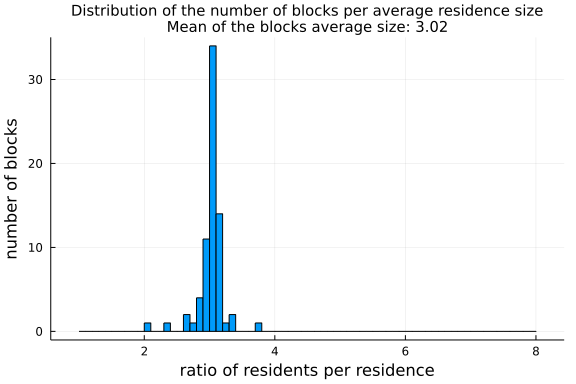
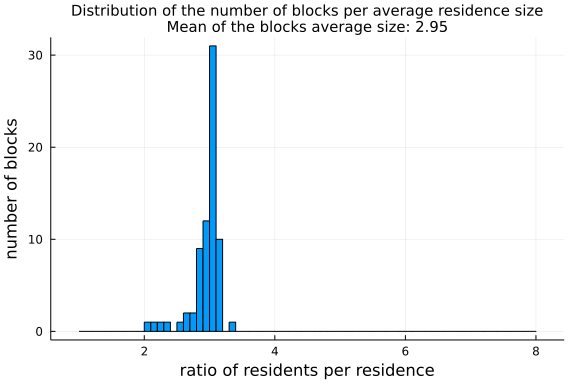
reorder output transition_rules

diff --git a/docs/src/examples/random_scenario.md b/docs/src/examples/random_scenario.md
@@ -275,12 +275,12 @@ res_blocks_distrib = EpiSiming.gen_res_blocks(pop_blocks, res_size_distribution)
 
 ```
 6×12 Matrix{Vector{Int64}}:
- [11, 19, 29, 18, 4, 5, 1, 0]  …  [1, 1, 4, 1, 0, 1, 0, 0]
- [5, 6, 12, 7, 1, 1, 1, 0]        [7, 13, 21, 15, 3, 3, 1, 0]
- [3, 5, 7, 6, 1, 2, 0, 0]         [7, 15, 24, 14, 3, 4, 1, 0]
- [5, 9, 13, 11, 2, 3, 0, 0]       [7, 17, 26, 15, 3, 4, 1, 0]
- [6, 14, 20, 13, 2, 2, 1, 0]      [5, 11, 19, 11, 2, 2, 0, 0]
- [5, 12, 15, 11, 2, 2, 0, 0]   …  [5, 11, 16, 11, 3, 3, 0, 0]
+ [10, 22, 28, 19, 4, 4, 1, 0]  …  [1, 3, 2, 3, 0, 0, 0, 0]
+ [5, 9, 12, 6, 2, 1, 0, 0]        [6, 14, 22, 14, 3, 3, 1, 0]
+ [4, 7, 7, 5, 2, 1, 0, 0]         [6, 15, 23, 15, 3, 4, 1, 0]
+ [5, 11, 15, 10, 2, 2, 0, 0]      [8, 20, 24, 15, 4, 3, 1, 0]
+ [6, 14, 19, 12, 2, 2, 2, 0]      [5, 12, 16, 11, 2, 2, 1, 0]
+ [8, 9, 16, 11, 2, 2, 0, 0]    …  [5, 10, 16, 11, 2, 3, 1, 0]
 ```
 
 
@@ -330,7 +330,7 @@ residences = EpiSiming.gen_residences(rng, res_blocks_distrib)
 ```
 
 ```
-3288-element EpiSiming.Residences{Int64, Float64}:
+3318-element EpiSiming.Residences{Int64, Float64}:
  (1, (1.5555555555555556, 1.3888888888888888), 1, [1])
  (1, (1.5, 1.0), 1, [2])
  (1, (1.5, 1.5), 1, [3])
@@ -342,20 +342,17 @@ residences = EpiSiming.gen_residences(rng, res_blocks_distrib)
  (1, (1.6111111111111112, 1.6111111111111112), 1, [9])
  (1, (1.7222222222222223, 1.7222222222222223), 1, [10])
  ⋮
- (72, (6.214285714285714, 12.214285714285714), 4, [9956, 9957, 9958, 9959])
- (72, (6.428571428571429, 12.357142857142858), 4, [9960, 9961, 9962, 9963])
- (72, (6.714285714285714, 12.142857142857142), 4, [9964, 9965, 9966, 9967])
- (72, (6.857142857142857, 12.071428571428571), 5, [9968, 9969, 9970, 9971, 
-9972])
- (72, (6.642857142857143, 12.071428571428571), 5, [9973, 9974, 9975, 9976, 
-9977])
- (72, (6.928571428571429, 12.785714285714286), 5, [9978, 9979, 9980, 9981, 
-9982])
- (72, (6.357142857142857, 12.214285714285714), 6, [9983, 9984, 9985, 9986, 
-9987, 9988])
- (72, (6.071428571428571, 12.642857142857142), 6, [9989, 9990, 9991, 9992, 
-9993, 9994])
- (72, (6.357142857142857, 12.5), 6, [9995, 9996, 9997, 9998, 9999, 10000])
+ (72, (6.083333333333333, 12.25), 4, [9954, 9955, 9956, 9957])
+ (72, (6.666666666666667, 12.916666666666666), 4, [9958, 9959, 9960, 9961])
+ (72, (6.083333333333333, 12.5), 4, [9962, 9963, 9964, 9965])
+ (72, (6.916666666666667, 12.5), 5, [9966, 9967, 9968, 9969, 9970])
+ (72, (6.166666666666667, 12.5), 5, [9971, 9972, 9973, 9974, 9975])
+ (72, (6.083333333333333, 12.916666666666666), 6, [9976, 9977, 9978, 9979, 
+9980, 9981])
+ (72, (6.5, 12.75), 6, [9982, 9983, 9984, 9985, 9986, 9987])
+ (72, (6.083333333333333, 12.75), 6, [9988, 9989, 9990, 9991, 9992, 9993])
+ (72, (6.916666666666667, 12.583333333333334), 7, [9994, 9995, 9996, 9997, 
+9998, 9999, 10000])
 ```
 
 
@@ -425,61 +422,62 @@ population = EpiSiming.gen_population(
 10000-element EpiSiming.Population{EpiSiming.Phase, Int64, Int64, Float64, 
 Int8, Float64, Symbol}:
  (S, 1, (E, 9223372036854775807), 1, (1.5694444444444444, 1.388888888888888
-8), 17, 0.8429668909281123, 1.0871421914278978, Dict{Symbol, Int64}(), Dict
+8), 64, 0.8429668909281123, 1.0871421914278978, Dict{Symbol, Int64}(), Dict
 {Symbol, Int64}())
- (S, 1, (E, 9223372036854775807), 2, (1.5138888888888888, 1.0), 11, 0.63460
+ (S, 1, (E, 9223372036854775807), 2, (1.5138888888888888, 1.0), 34, 0.63460
 32739780121, 0.9288554210581556, Dict{Symbol, Int64}(), Dict{Symbol, Int64}
 ())
- (S, 1, (E, 9223372036854775807), 3, (1.5138888888888888, 1.5), 10, 1.86613
+ (S, 1, (E, 9223372036854775807), 3, (1.5138888888888888, 1.5), 29, 1.86613
 6384893467, 0.6379958240264992, Dict{Symbol, Int64}(), Dict{Symbol, Int64}(
 ))
  (S, 1, (E, 9223372036854775807), 4, (1.7361111111111112, 1.222222222222222
-3), 45, 1.9630070493538805, 0.49089045628844613, Dict{Symbol, Int64}(), Dic
+3), 21, 1.9630070493538805, 0.49089045628844613, Dict{Symbol, Int64}(), Dic
 t{Symbol, Int64}())
- (S, 1, (E, 9223372036854775807), 5, (1.9583333333333333, 1.5), 34, 0.17974
+ (S, 1, (E, 9223372036854775807), 5, (1.9583333333333333, 1.5), 11, 0.17974
 072857925905, 0.9196908284361106, Dict{Symbol, Int64}(), Dict{Symbol, Int64
 }())
  (S, 1, (E, 9223372036854775807), 6, (1.347222222222222, 1.7777777777777777
-), 9, 0.8018440204599591, 0.8572836161482715, Dict{Symbol, Int64}(), Dict{S
-ymbol, Int64}())
+), 18, 0.8018440204599591, 0.8572836161482715, Dict{Symbol, Int64}(), Dict{
+Symbol, Int64}())
  (S, 1, (E, 9223372036854775807), 7, (1.5694444444444444, 1.055555555555555
-6), 44, 0.7121991800323644, 1.4273823226339426, Dict{Symbol, Int64}(), Dict
+6), 46, 0.7121991800323644, 1.4273823226339426, Dict{Symbol, Int64}(), Dict
 {Symbol, Int64}())
  (S, 1, (E, 9223372036854775807), 8, (1.5694444444444444, 1.277777777777777
-7), 69, 0.7803803598677808, 0.7458566679008322, Dict{Symbol, Int64}(), Dict
+7), 47, 0.7803803598677808, 0.7458566679008322, Dict{Symbol, Int64}(), Dict
 {Symbol, Int64}())
- (S, 1, (E, 9223372036854775807), 9, (1.625, 1.6111111111111112), 40, 0.753
+ (S, 1, (E, 9223372036854775807), 9, (1.625, 1.6111111111111112), 84, 0.753
 3507391116316, 1.0597501527579962, Dict{Symbol, Int64}(), Dict{Symbol, Int6
 4}())
  (S, 1, (E, 9223372036854775807), 10, (1.7361111111111112, 1.72222222222222
-23), 42, 1.0583784725947785, 0.6163376056877701, Dict{Symbol, Int64}(), Dic
+23), 47, 1.0583784725947785, 0.6163376056877701, Dict{Symbol, Int64}(), Dic
 t{Symbol, Int64}())
  ⋮
- (S, 1, (E, 9223372036854775807), 3287, (6.053571428571428, 12.642857142857
-142), 37, 0.7425559871162212, 1.878529197903739, Dict{Symbol, Int64}(), Dic
+ (S, 1, (E, 9223372036854775807), 3317, (6.072916666666666, 12.731957804087
+823), 39, 0.7425559871162212, 1.878529197903739, Dict{Symbol, Int64}(), Dic
 t{Symbol, Int64}())
- (S, 1, (E, 9223372036854775807), 3287, (6.0625, 12.62739240350385), 34, 1.
-3467418715174564, 0.6158224898743601, Dict{Symbol, Int64}(), Dict{Symbol, I
-nt64}())
- (S, 1, (E, 9223372036854775807), 3287, (6.080357142857142, 12.627392403503
-85), 37, 0.5713254684769675, 1.2604338561736381, Dict{Symbol, Int64}(), Dic
+ (S, 1, (E, 9223372036854775807), 3317, (6.09375, 12.731957804087823), 74, 
+1.3467418715174564, 0.6158224898743601, Dict{Symbol, Int64}(), Dict{Symbol,
+ Int64}())
+ (S, 1, (E, 9223372036854775807), 3318, (6.9375, 12.583333333333334), 21, 0
+.5713254684769675, 1.2604338561736381, Dict{Symbol, Int64}(), Dict{Symbol, 
+Int64}())
+ (S, 1, (E, 9223372036854775807), 3318, (6.929656037538724, 12.599621489218
+084), 63, 0.71166954083545, 0.6573989249359745, Dict{Symbol, Int64}(), Dict
+{Symbol, Int64}())
+ (S, 1, (E, 9223372036854775807), 3318, (6.91203081387591, 12.6036443315037
+89), 35, 0.9299123501842387, 0.5603267260793015, Dict{Symbol, Int64}(), Dic
 t{Symbol, Int64}())
- (S, 1, (E, 9223372036854775807), 3288, (6.375, 12.5), 39, 0.71166954083545
-, 0.6573989249359745, Dict{Symbol, Int64}(), Dict{Symbol, Int64}())
- (S, 1, (E, 9223372036854775807), 3288, (6.366071428571428, 12.515464739353
-293), 85, 0.9299123501842387, 0.5603267260793015, Dict{Symbol, Int64}(), Di
-ct{Symbol, Int64}())
- (S, 1, (E, 9223372036854775807), 3288, (6.348214285714286, 12.515464739353
-293), 62, 0.3495478705397754, 0.7703472343146436, Dict{Symbol, Int64}(), Di
-ct{Symbol, Int64}())
- (S, 1, (E, 9223372036854775807), 3288, (6.3392857142857135, 12.5), 12, 0.6
-946812843355863, 2.073824042353887, Dict{Symbol, Int64}(), Dict{Symbol, Int
-64}())
- (S, 1, (E, 9223372036854775807), 3288, (6.348214285714286, 12.484535260646
-707), 58, 1.1293777785439765, 1.4010740192330449, Dict{Symbol, Int64}(), Di
-ct{Symbol, Int64}())
- (S, 1, (E, 9223372036854775807), 3288, (6.366071428571428, 12.484535260646
-707), 37, 0.8959454204650464, 1.9864694366090996, Dict{Symbol, Int64}(), Di
+ (S, 1, (E, 9223372036854775807), 3318, (6.8978964819187, 12.59237257789828
+3), 8, 0.3495478705397754, 0.7703472343146436, Dict{Symbol, Int64}(), Dict{
+Symbol, Int64}())
+ (S, 1, (E, 9223372036854775807), 3318, (6.8978964819187, 12.57429408876838
+5), 22, 0.6946812843355863, 2.073824042353887, Dict{Symbol, Int64}(), Dict{
+Symbol, Int64}())
+ (S, 1, (E, 9223372036854775807), 3318, (6.91203081387591, 12.5630223351628
+79), 24, 1.1293777785439765, 1.4010740192330449, Dict{Symbol, Int64}(), Dic
+t{Symbol, Int64}())
+ (S, 1, (E, 9223372036854775807), 3318, (6.929656037538724, 12.567045177448
+584), 62, 0.8959454204650464, 1.9864694366090996, Dict{Symbol, Int64}(), Di
 ct{Symbol, Int64}())
 ```
 
@@ -740,7 +738,7 @@ exposed_at_time_0 = sample(rng, 1:num_population, num_exposed_at_time_0, replace
 # population.phase[exposed_at_time_0] .= EXPOSED
 for n in exposed_at_time_0
     population.phase[n] = EXPOSED
-    next_change, next_phase = EpiSiming.transition_rules(rng, EXPOSED, 1)
+    next_phase, next_change = EpiSiming.transition_rules(rng, EXPOSED, 1)
     population.next_transition[n] = (next_phase, next_change)
 end
 ```
@@ -781,29 +779,30 @@ time_step = 1
 ```
 
 ```
-1.523075 seconds (66.01 k allocations: 44.580 MiB)
-  0.213170 seconds (2 allocations: 19.766 KiB)
+1.559234 seconds (367.95 k allocations: 61.696 MiB, 2.46% gc time, 11.73%
+ compilation time)
+  0.215873 seconds (2 allocations: 19.766 KiB)
 360×7 Matrix{Int64}:
  9980  20   0   0     0    0  0
- 9980  19   1   0     0    0  0
- 9980  18   2   0     0    0  0
- 9978  20   2   0     0    0  0
- 9978  12   6   4     0    0  0
- 9975   9   9   7     0    0  0
- 9968  12  11   9     0    0  0
- 9962  17  10  11     0    0  0
- 9958  18  10  14     0    0  0
- 9953  20  12  14     1    0  0
+ 9980  18   0   2     0    0  0
+ 9979  18   1   2     0    0  0
+ 9977  18   2   3     0    0  0
+ 9975  16   5   4     0    0  0
+ 9973  12  11   4     0    0  0
+ 9971   8  14   7     0    0  0
+ 9965  11  14  10     0    0  0
+ 9957  17  16  10     0    0  0
+ 9949  24  17  10     0    0  0
     ⋮                      ⋮  
- 2065   0   0   0  7779  156  0
- 2065   0   0   0  7779  156  0
- 2065   0   0   0  7779  156  0
- 2065   0   0   0  7779  156  0
- 2065   0   0   0  7779  156  0
- 2065   0   0   0  7779  156  0
- 2065   0   0   0  7779  156  0
- 2065   0   0   0  7779  156  0
- 2065   0   0   0  7779  156  0
+ 1987   0   0   0  7872  141  0
+ 1987   0   0   0  7872  141  0
+ 1987   0   0   0  7872  141  0
+ 1987   0   0   0  7872  141  0
+ 1987   0   0   0  7872  141  0
+ 1987   0   0   0  7872  141  0
+ 1987   0   0   0  7872  141  0
+ 1987   0   0   0  7872  141  0
+ 1987   0   0   0  7872  141  0
 ```
 
 
